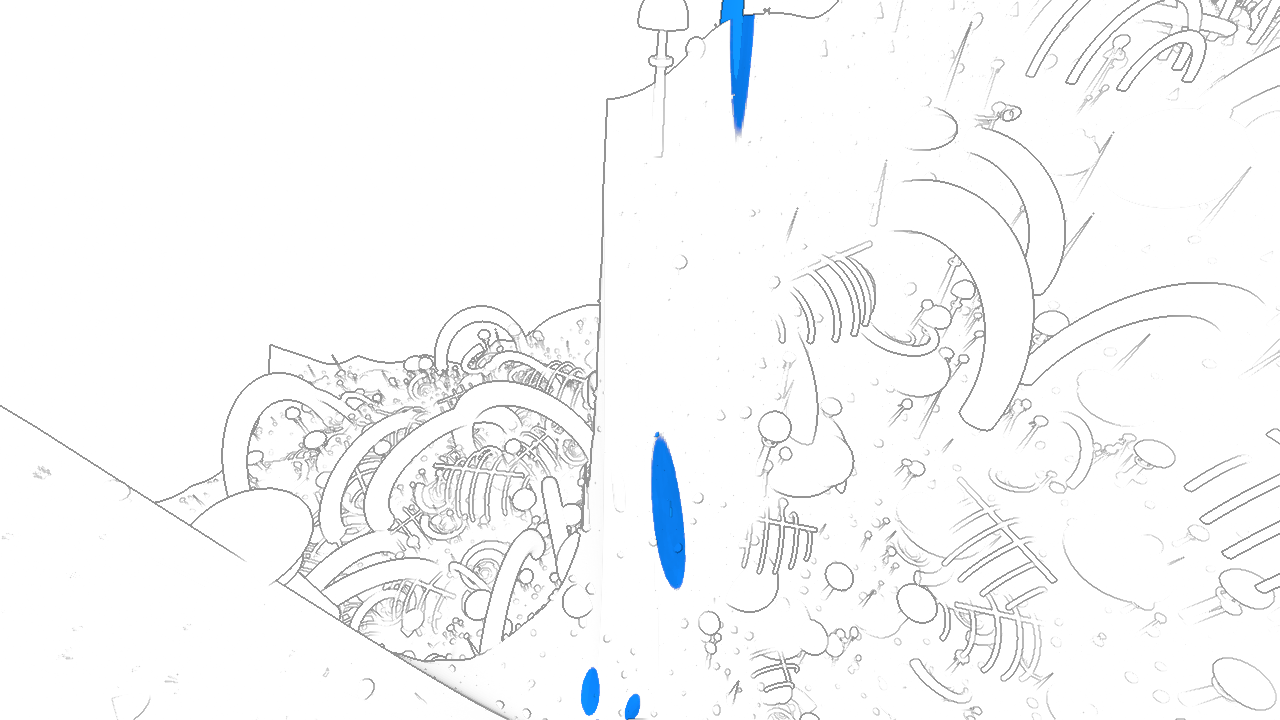
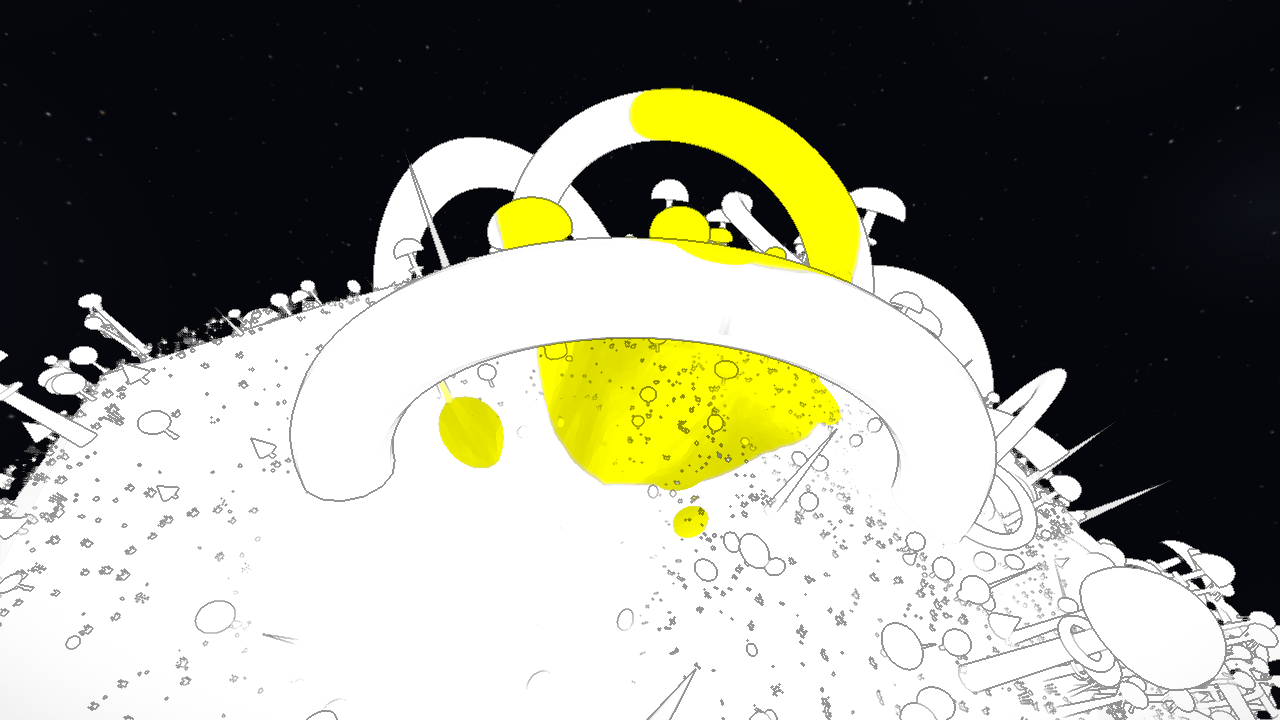
Put the planet in space
A sky sphere seen from the inside rather than a cube map: the background is
generated, so one 2:1 canvas beats six faces that must agree at their seams. It
sits outside the flight ceiling, renders first, writes no depth. Stars are drawn
into the canvas instead of instanced, which is one texture and one draw call
rather than nine thousand quads. Five distant worlds for something to look at.

The white planet is unchanged, so the grey contour work still reads against it;
only the sky went dark. Two things had to follow. The vignette fell off to
white, which was the edge of a sheet of paper and against space ringed the frame
in white, so it falls off to the sky colour. And the contours gate counted
non-white pixels, which a black sky passes for free, so it counts mid-tones
instead. The no-pigment gate needed nothing: it measures chroma, and neither
black nor white has any.

Drawing dust as a few large radial gradients put a hard wedge across the sky,
because a gradient spanning much of an equirectangular texture maps onto a
sphere as a cone. Seventy small patches instead.

The lap gate flaked here and is now deterministic: it starts above the highest
ground and holds pitch flat rather than only the target, since the
ground-clearance nose-up spirals a long flight into a wider orbit that never
closes. Whether the world wraps is a separate question from terrain avoidance.
Two consecutive runs, 1 unit both times.

diff --git a/blank-planet/src/props/starfield.js b/blank-planet/src/props/starfield.js
@@ -1,0 +1,118 @@
+import * as THREE from 'three';
+import { PLANET_RADIUS, space as cfg } from '../config.js';
+import { rng } from '../random.js';
+
+/**
+ * Space, around the planet.
+ *
+ * A sky sphere seen from the inside rather than a cube map, because the whole background
+ * is generated and one 2:1 canvas is simpler than six faces that have to agree at their
+ * seams. It sits well outside the flight ceiling and renders first with depth writing
+ * off, so nothing can ever clip through it and it costs no depth bandwidth.
+ *
+ * Stars are drawn into a canvas rather than instanced as geometry. At these counts that
+ * is one texture and one draw call instead of thousands of quads, and a star that is a
+ * texel is exactly as convincing as a star that is a billboard.
+ */
+
+function skyTexture(size, rand) {
+  const c = document.createElement('canvas');
+  c.width = size;
+  c.height = size / 2;
+  const ctx = c.getContext('2d');
+  ctx.fillStyle = cfg.background;
+  ctx.fillRect(0, 0, c.width, c.height);
+
+  // Faint dust, so the sky is not an even field of dots. Many small patches rather than
+  // a few large ones: a gradient wide enough to span a good fraction of the texture maps
+  // onto the sphere as a hard-edged wedge, which is what a first pass at this looked like.
+  for (let i = 0; i < cfg.dustBands; i++) {
+    const x = rand() * c.width;
+    const y = (Math.asin(rand() * 2 - 1) / Math.PI + 0.5) * c.height;
+    const r = c.width * (0.02 + rand() * 0.05);
+    const g = ctx.createRadialGradient(x, y, 0, x, y, r);
+    g.addColorStop(0, `rgba(150,170,220,${0.03 + rand() * 0.035})`);
+    g.addColorStop(1, 'rgba(0,0,0,0)');
+    ctx.fillStyle = g;
+    ctx.beginPath();
+    ctx.arc(x, y, r, 0, Math.PI * 2);
+    ctx.fill();
+  }
+
+  for (let i = 0; i < cfg.stars; i++) {
+    // Uniform on the sphere means uniform in sin(latitude), not in latitude: stepping
+    // the pixel row directly would crowd every star toward the poles.
+    const x = rand() * c.width;
+    const y = (Math.asin(rand() * 2 - 1) / Math.PI + 0.5) * c.height;
+    const r = cfg.starSize[0] + rand() ** 3 * (cfg.starSize[1] - cfg.starSize[0]);
+    // Mostly white, some warm, some cold. Real starfields are not monochrome and the
+    // difference is what stops it reading as noise.
+    const t = rand();
+    const tint = t < 0.12 ? [255, 214, 180] : t < 0.22 ? [190, 214, 255] : [255, 255, 255];
+    const a = 0.25 + rand() ** 2 * 0.75;
+    const g = ctx.createRadialGradient(x, y, 0, x, y, r);
+    g.addColorStop(0, `rgba(${tint[0]},${tint[1]},${tint[2]},${a})`);
+    g.addColorStop(0.5, `rgba(${tint[0]},${tint[1]},${tint[2]},${a * 0.25})`);
+    g.addColorStop(1, 'rgba(0,0,0,0)');
+    ctx.fillStyle = g;
+    ctx.beginPath();
+    ctx.arc(x, y, r, 0, Math.PI * 2);
+    ctx.fill();
+  }
+
+  const tex = new THREE.CanvasTexture(c);
+  tex.colorSpace = THREE.SRGBColorSpace;
+  tex.magFilter = THREE.LinearFilter;
+  tex.minFilter = THREE.LinearFilter;
+  tex.generateMipmaps = false;
+  return tex;
+}
+
+/** A distant world, drawn flat. It is scenery, not a place, so it takes no lighting. */
+function planetGeometry() {
+  return new THREE.SphereGeometry(1, 32, 24);
+}
+
+export function createStarfield() {
+  const group = new THREE.Group();
+  const rand = rng(cfg.seed);
+
+  const sky = new THREE.Mesh(
+    new THREE.SphereGeometry(cfg.radius, 48, 32),
+    new THREE.MeshBasicMaterial({
+      map: skyTexture(cfg.textureSize, rand),
+      side: THREE.BackSide,
+      depthWrite: false,
+      fog: false,
+      toneMapped: false,
+    }),
+  );
+  // Ahead of everything, and it writes no depth, so the planet always wins.
+  sky.renderOrder = -1000;
+  sky.frustumCulled = false;
+  group.add(sky);
+
+  // A handful of other worlds, far enough out to sit against the stars but inside the
+  // sky shell. Deliberately plain: they are something to look at, not somewhere to go.
+  const geo = planetGeometry();
+  for (let i = 0; i < cfg.planets; i++) {
+    const u = rand() * 2 - 1;
+    const phi = rand() * Math.PI * 2;
+    const s = Math.sqrt(1 - u * u);
+    const dir = new THREE.Vector3(s * Math.cos(phi), u, s * Math.sin(phi));
+    const dist = cfg.radius * (0.45 + rand() * 0.35);
+    const size = PLANET_RADIUS * (0.10 + rand() * 0.28);
+    const shade = 0.28 + rand() * 0.5;
+    const mesh = new THREE.Mesh(geo, new THREE.MeshBasicMaterial({
+      color: new THREE.Color().setHSL(rand(), 0.10 + rand() * 0.2, shade),
+      toneMapped: false,
+      fog: false,
+    }));
+    mesh.position.copy(dir).multiplyScalar(dist);
+    mesh.scale.setScalar(size);
+    mesh.renderOrder = -900;
+    group.add(mesh);
+  }
+
+  return group;
+}

diff --git a/blank-planet/src/post/WatercolorEffect.js b/blank-planet/src/post/WatercolorEffect.js
@@ -1,5 +1,5 @@
 import { Effect, EffectAttribute } from 'postprocessing';
-import { Uniform } from 'three';
+import { Color, Uniform } from 'three';
 
 /**
  * The painterly layer: Kuwahara, then paper, in one pass.
@@ -25,6 +25,7 @@ uniform float uContour;
 uniform float uCrease;
 uniform float uContourWidth;
 uniform float uVignette;
+uniform vec3 uVoid;
 uniform float uFibre;
 
 float hash(vec2 p) { return fract(sin(dot(p, vec2(127.1, 311.7))) * 43758.5453123); }
@@ -121,7 +122,7 @@ void mainImage(const in vec4 inputColor, const in vec2 uv, const in float depth,
   best *= 1.0 - (grain - 0.5) * uGrain;
 
   float d = distance(uv, vec2(0.5));
-  best = mix(best, vec3(1.0), smoothstep(0.55, 0.95, d) * uVignette);
+  best = mix(best, uVoid, smoothstep(0.55, 0.95, d) * uVignette);
 
   outputColor = vec4(best, inputColor.a);
 }
@@ -130,7 +131,7 @@ void mainImage(const in vec4 inputColor, const in vec2 uv, const in float depth,
 export class WatercolorEffect extends Effect {
   constructor({ radius = 3, grain = 0.09, grainScale = 900, outline = 0.28,
                 contour = 0.55, crease = 0.35, contourWidth = 1.0,
-                vignette = 0.5, fibre = 2.2 } = {}) {
+                vignette = 0.5, fibre = 2.2, voidColor = null } = {}) {
     super('WatercolorEffect', fragment, {
       // The contour reads the depth buffer, which postprocessing only attaches, and only
       // defines readDepth/getViewZ for, when the effect declares it needs depth.
@@ -144,6 +145,7 @@ export class WatercolorEffect extends Effect {
         ['uCrease', new Uniform(crease)],
         ['uContourWidth', new Uniform(contourWidth)],
         ['uVignette', new Uniform(vignette)],
+        ['uVoid', new Uniform(voidColor ?? new Color(0, 0, 0))],
         ['uFibre', new Uniform(fibre)],
       ]),
     });

diff --git a/blank-planet/src/main.js b/blank-planet/src/main.js
@@ -1,6 +1,6 @@
 import * as THREE from 'three';
 import { createWorld } from './world.js';
-import { createGround, radiusAt, SPAWN_DIR } from './terrain.js';
+import { createGround, radiusAt, terrainMax, SPAWN_DIR } from './terrain.js';
 import { createFlight } from './flight.js';
 import { Colliders } from './collision.js';
 import { PaintMap } from './ink/paintMap.js';
@@ -15,6 +15,7 @@ import { createMoth } from './props/moth.js';
 import { Droplets } from './props/droplets.js';
 import { createArches, createGrowths, createSpires } from './props/features.js';
 import { createLifeforms } from './props/lifeforms.js';
+import { createStarfield } from './props/starfield.js';
 import { createComposer } from './post/composer.js';
 import { Ambience } from './audio.js';
 import { density, droplet as dropCfg } from './config.js';
@@ -28,6 +29,8 @@ debugModule?.applyDensityOverrides(density);
 const { renderer, scene, camera } = createWorld();
 const paint = new PaintMap(renderer);
 const post = createComposer(renderer, scene, camera);
+
+scene.add(createStarfield());
 
 const ground = createGround();
 applyInk(ground.material);
@@ -176,7 +179,7 @@ const api = {
   input: flight.input, radiusAt, dropPigment, freeze: false,
   /** Altitude above the surface, which is what the gates actually mean by height. */
   altitudeAt: (v) => v.length() - radiusAt(v),
-  SPAWN_DIR,
+  SPAWN_DIR, terrainMax,
   clearPigment: () => paint.clear(),
 };
 globalThis.__blankPlanet = api;

diff --git a/blank-planet/src/world.js b/blank-planet/src/world.js
@@ -1,22 +1,23 @@
 import * as THREE from 'three';
-import { PLANET_RADIUS, render } from './config.js';
+import { render, space } from './config.js';
 import { ceiling } from './flight.js';
 
 export function createWorld() {
   const renderer = new THREE.WebGLRenderer({ antialias: true, powerPreference: 'high-performance' });
   renderer.setPixelRatio(Math.min(devicePixelRatio, render.pixelRatio));
   renderer.setSize(innerWidth, innerHeight);
-  renderer.setClearColor(0xffffff, 1);
+  renderer.setClearColor(space.background, 1);
   document.body.appendChild(renderer.domElement);
 
   const scene = new THREE.Scene();
-  scene.background = new THREE.Color(0xffffff);
+  scene.background = new THREE.Color(space.background);
 
   // The far plane has to clear the far limb of the planet seen from the ceiling, or the
   // ground is clipped away and the whole thing renders as blank paper. A fixed 300 once
   // did exactly that, and every gate that asked "is the page white" passed because
   // nothing was being drawn at all.
-  const far = (ceiling + PLANET_RADIUS * 2) * 1.3;
+  // Far enough to keep the sky shell inside the frustum as well as the planet.
+  const far = space.radius * 1.6;
   // Near is well clear of 0.1 to buy back depth precision over that range. The chase
   // camera never gets closer than a few units to the moth, so nothing is lost.
   const camera = new THREE.PerspectiveCamera(72, innerWidth / innerHeight, 0.6, far);

diff --git a/blank-planet/src/config.js b/blank-planet/src/config.js
@@ -98,7 +98,9 @@ export const post = {
   // it a 375-unit mountain is a blank white mass with an outline drawn round it.
   crease: 0.35,
   contourWidth: 1.0, // in pixels
-  vignette: 0.38,   // falls off to white, like the edge of the canvas
+  // Falls off to the sky colour. It used to go to white, which was the edge of a sheet
+  // of paper; against space that would ring the frame in white.
+  vignette: 0.38,
   fibre: 0.5,       // keep sampling almost straight, so curves stay curves
 };
 
@@ -129,6 +131,18 @@ export const life = {
   swayAngle: 0.16,     // how far it leans
   breathSpeed: 0.22,   // sac inflate cycle
   breathAmount: 0.11,  // fraction of size
+};
+
+// Space. The sky shell sits well outside the flight ceiling, so nothing can clip it.
+export const space = {
+  seed: 74110,
+  background: '#05060b',   // not pure black; a little blue reads as depth rather than void
+  radius: 5200,
+  textureSize: 4096,       // 4096x2048 equirectangular
+  stars: 9000,
+  starSize: [0.7, 3.4],    // in texture pixels
+  dustBands: 70,   // many small ones: a few large ones map to hard wedges in equirect
+  planets: 5,
 };
 
 // Fragment cost dominates this renderer, and it scales with the square of this number.

diff --git a/blank-planet/src/post/composer.js b/blank-planet/src/post/composer.js
@@ -1,12 +1,13 @@
 import { EffectComposer, EffectPass, RenderPass } from 'postprocessing';
 import { WatercolorEffect } from './WatercolorEffect.js';
-import { post as cfg } from '../config.js';
+import { Color } from 'three';
+import { post as cfg, space } from '../config.js';
 
 export function createComposer(renderer, scene, camera) {
   const composer = new EffectComposer(renderer);
   composer.addPass(new RenderPass(scene, camera));
 
-  const watercolor = new WatercolorEffect(cfg);
+  const watercolor = new WatercolorEffect({ ...cfg, voidColor: new Color(space.background) });
   const pass = new EffectPass(camera, watercolor);
   composer.addPass(pass);
 

diff --git a/blank-planet/docs/results.md b/blank-planet/docs/results.md
@@ -247,6 +247,33 @@ load that allocated four objects per scatter point across ninety thousand points
 now returns a direction, a quaternion and a radius, and derives the world position rather
 than storing it.
 
+### Space
+
+A sky sphere seen from the inside, not a cube map: the whole background is generated, so
+one 2:1 canvas beats six faces that have to agree at their seams. It sits outside the
+flight ceiling, renders first and writes no depth, so nothing can clip it. Stars are drawn
+into the canvas rather than instanced, which is one texture and one draw call instead of
+nine thousand quads.
+
+Two things had to move with it:
+
+- **The vignette fell off to white**, which was the edge of a sheet of paper. Against space
+  it ringed the frame in white. It falls off to the sky colour now.
+- **The `contours` gate counted non-white pixels**, which a black sky passes for free. It
+  counts mid-tones instead: darker than the white planet, lighter than space. `no pigment`
+  needed no change, because it measures chroma and neither black nor white has any.
+
+Drawing the dust as a few large radial gradients put a hard-edged wedge across the sky —
+a gradient spanning a good fraction of an equirectangular texture maps onto a sphere as a
+cone. Seventy small patches instead.
+
+The lap gate flaked once here, reporting its closest approach at the start of the window.
+The ground-clearance rule pitches up whenever the moth clips the floor and nothing pulls
+it back down, so a long flight spirals outward into a wider, slower orbit that never
+closes. The gate now starts above the highest ground and holds the pitch itself flat, not
+just the target: whether the world wraps is a separate question from terrain avoidance.
+Two consecutive runs, 1 unit both times.
+
 ## Bugs that produced confident, wrong output
 
 Each of these looked fine until something was measured or rendered side by side.
